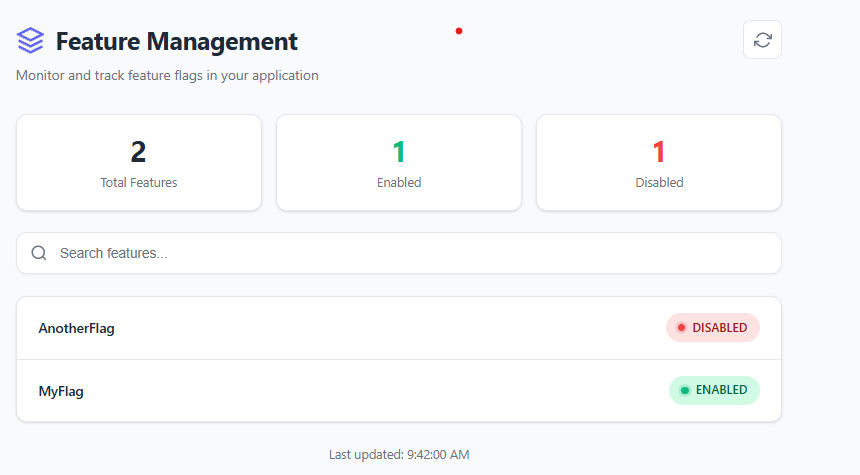
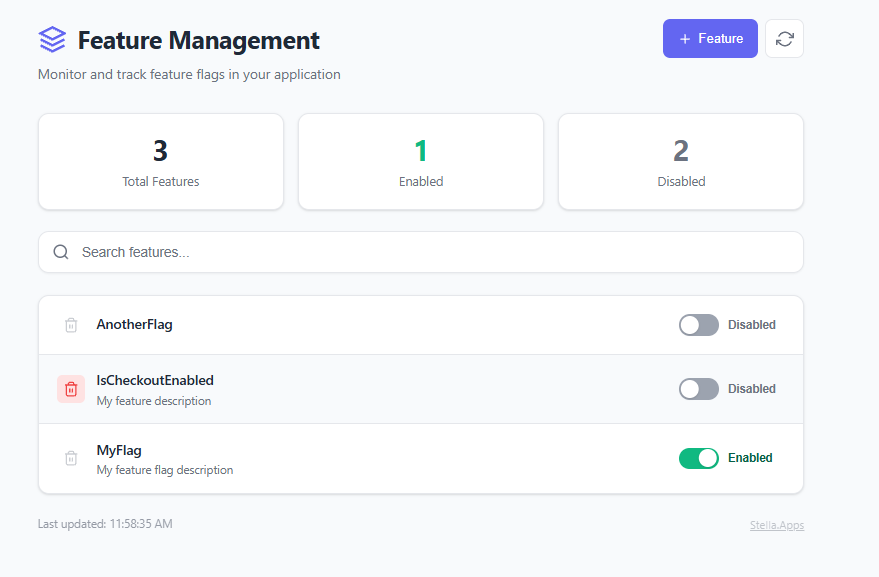
add and persist description to a Feature Flag

diff --git a/Stella.FeatureManagement.Dashboard/FeatureOptionsApplier.cs b/Stella.FeatureManagement.Dashboard/FeatureOptionsApplier.cs
@@ -58,7 +58,7 @@ internal sealed class DashboardInitializer(FeatureFlagDbContext context, ILogger
 
     private async Task AddFeaturesIfNotExists(DashboardOptions options, CancellationToken cancellationToken)
     {
-        foreach (var (featureName, isEnabled) in options.AddIfNotExists)
+        foreach (var (featureName, definition) in options.AddIfNotExists)
         {
             var exists = await context.FeatureFlags.AnyAsync(f => f.Name == featureName, cancellationToken);
             if (!exists)
@@ -66,12 +66,13 @@ internal sealed class DashboardInitializer(FeatureFlagDbContext context, ILogger
                 context.FeatureFlags.Add(new FeatureFlag
                 {
                     Name = featureName,
-                    IsEnabled = isEnabled,
+                    IsEnabled = definition.IsEnabled,
+                    Description = definition.Description,
                     CreatedAt = DateTime.UtcNow,
                     UpdatedAt = DateTime.UtcNow
                 });
                 logger.LogInformation("Adding feature flag: {FeatureName} with IsEnabled={IsEnabled}", featureName,
-                    isEnabled);
+                    definition.IsEnabled);
             }
         }
     }

diff --git a/Stella.FeatureManagement.Dashboard/DashboardOptions.cs b/Stella.FeatureManagement.Dashboard/DashboardOptions.cs
@@ -1,15 +1,22 @@
 namespace Stella.FeatureManagement.Dashboard;
 
 /// <summary>
+/// Represents a feature configuration with enabled state and description.
+/// </summary>
+/// <param name="IsEnabled">Whether the feature is enabled.</param>
+/// <param name="Description">Optional description of the feature.</param>
+public record FeatureConfig(bool IsEnabled, string? Description = null);
+
+/// <summary>
 /// Configuration options for the Feature Management Dashboard.
 /// </summary>
 public sealed class DashboardOptions
 {
     /// <summary>
     /// Gets or sets the features to add if they don't exist.
-    /// Key: feature name, Value: initial enabled state.
+    /// Key: feature name, Value: feature definition with enabled state and description.
     /// </summary>
-    public Dictionary<string, bool> AddIfNotExists { get; set; } = [];
+    public Dictionary<string, FeatureConfig> AddIfNotExists { get; set; } = [];
 
     /// <summary>
     /// Gets or sets the features to add or update.

diff --git a/Stella.FeatureManagement.Dashboard/Data/Migrations/20260119112335_AddFeatureFlagDescription.Designer.cs b/Stella.FeatureManagement.Dashboard/Data/Migrations/20260119112335_AddFeatureFlagDescription.Designer.cs
@@ -2,6 +2,7 @@
 using System;
 using Microsoft.EntityFrameworkCore;
 using Microsoft.EntityFrameworkCore.Infrastructure;
+using Microsoft.EntityFrameworkCore.Migrations;
 using Microsoft.EntityFrameworkCore.Storage.ValueConversion;
 using Npgsql.EntityFrameworkCore.PostgreSQL.Metadata;
 using Stella.FeatureManagement.Dashboard.Data;
@@ -11,9 +12,11 @@ using Stella.FeatureManagement.Dashboard.Data;
 namespace Stella.FeatureManagement.Dashboard.Data.Migrations
 {
     [DbContext(typeof(FeatureFlagDbContext))]
-    partial class FeatureFlagDbContextModelSnapshot : ModelSnapshot
+    [Migration("20260119112335_AddFeatureFlagDescription")]
+    partial class AddFeatureFlagDescription
     {
-        protected override void BuildModel(ModelBuilder modelBuilder)
+        /// <inheritdoc />
+        protected override void BuildTargetModel(ModelBuilder modelBuilder)
         {
 #pragma warning disable 612, 618
             modelBuilder

diff --git a/Stella.FeatureManagement.Dashboard/Data/Migrations/20260119112335_AddFeatureFlagDescription.cs b/Stella.FeatureManagement.Dashboard/Data/Migrations/20260119112335_AddFeatureFlagDescription.cs
@@ -1,0 +1,30 @@
+using Microsoft.EntityFrameworkCore.Migrations;
+
+#nullable disable
+
+namespace Stella.FeatureManagement.Dashboard.Data.Migrations
+{
+    /// <inheritdoc />
+    public partial class AddFeatureFlagDescription : Migration
+    {
+        /// <inheritdoc />
+        protected override void Up(MigrationBuilder migrationBuilder)
+        {
+            migrationBuilder.AddColumn<string>(
+                name: "Description",
+                schema: "features",
+                table: "FeatureFlags",
+                type: "text",
+                nullable: true);
+        }
+
+        /// <inheritdoc />
+        protected override void Down(MigrationBuilder migrationBuilder)
+        {
+            migrationBuilder.DropColumn(
+                name: "Description",
+                schema: "features",
+                table: "FeatureFlags");
+        }
+    }
+}

diff --git a/Stella.FeatureManagement.Dashboard/EndPoints/GetFeaturesExtension.cs b/Stella.FeatureManagement.Dashboard/EndPoints/GetFeaturesExtension.cs
@@ -14,7 +14,7 @@ internal static class GetFeaturesExtension
         {
             await using var context = await contextFactory.CreateDbContextAsync();
             var features = await context.FeatureFlags
-                .Select(f => new FeatureState(f.Name, f.IsEnabled, "My feature description"))
+                .Select(f => new FeatureState(f.Name, f.IsEnabled, f.Description))
                 .ToListAsync();
 
             return features;
@@ -33,4 +33,4 @@ internal static class GetFeaturesExtension
     }
 }
 
-internal record FeatureState(string FeatureName, bool IsEnabled, string Description);
+internal record FeatureState(string FeatureName, bool IsEnabled, string? Description);

diff --git a/Example.Api/Program.cs b/Example.Api/Program.cs
@@ -41,13 +41,13 @@ if (app.Environment.IsDevelopment())
 }
 
 await app.UseFeaturesDashboardAsync((o) =>
+{
+    o.AddIfNotExists = new Dictionary<string, FeatureConfig>
     {
-        o.AddIfNotExists = new Dictionary<string, bool>
-        {
-            { "MyFlag", true },
-            { "AnotherFlag", false }
-        };
-    },
+        { "MyFlag", new FeatureConfig(true, "My feature flag description") },
+        { "AnotherFlag", new FeatureConfig(false) }
+    };
+},
     configureCors: policy => policy
         .AllowAnyOrigin()
         .AllowAnyMethod()

diff --git a/Example.AppHost/AppHost.cs b/Example.AppHost/AppHost.cs
@@ -4,9 +4,10 @@ var builder = DistributedApplication.CreateBuilder(args);
 var postgresPassword = builder.AddParameter("postgres-password", secret: true);
 
 var postgres = builder.AddPostgres("postgres", password: postgresPassword)
-    .WithHostPort(5432)
-    .WithPgAdmin()
-    .AddDatabase("exampledb");
+.WithHostPort(5432)
+.WithDataVolume()
+.WithPgAdmin()
+.AddDatabase("exampledb");
 
 // Add your existing API project with a reference to the database
 var api = builder.AddProject<Projects.Example_Api>("api")

diff --git a/Stella.FeatureManagement.Dashboard/Data/FeatureFlag.cs b/Stella.FeatureManagement.Dashboard/Data/FeatureFlag.cs
@@ -16,6 +16,11 @@ public class FeatureFlag
     public required string Name { get; set; }
 
     /// <summary>
+    /// Gets or sets the feature description.
+    /// </summary>
+    public string? Description { get; set; }
+
+    /// <summary>
     /// Gets or sets whether the feature is enabled.
     /// When true and no filters exist, feature is always on.
     /// When true with filters, all filters must pass.

diff --git a/Stella.FeatureManagement.Dashboard/EndPoints/PutFeaturesExtension.cs b/Stella.FeatureManagement.Dashboard/EndPoints/PutFeaturesExtension.cs
@@ -29,7 +29,7 @@ internal static class PutFeaturesExtension
 
             await context.SaveChangesAsync();
 
-            return Results.Ok(new FeatureState(feature.Name, feature.IsEnabled, "My feature description"));
+            return Results.Ok(new FeatureState(feature.Name, feature.IsEnabled, null));
         })
         .Produces<FeatureState>(200)
         .Produces(404);
